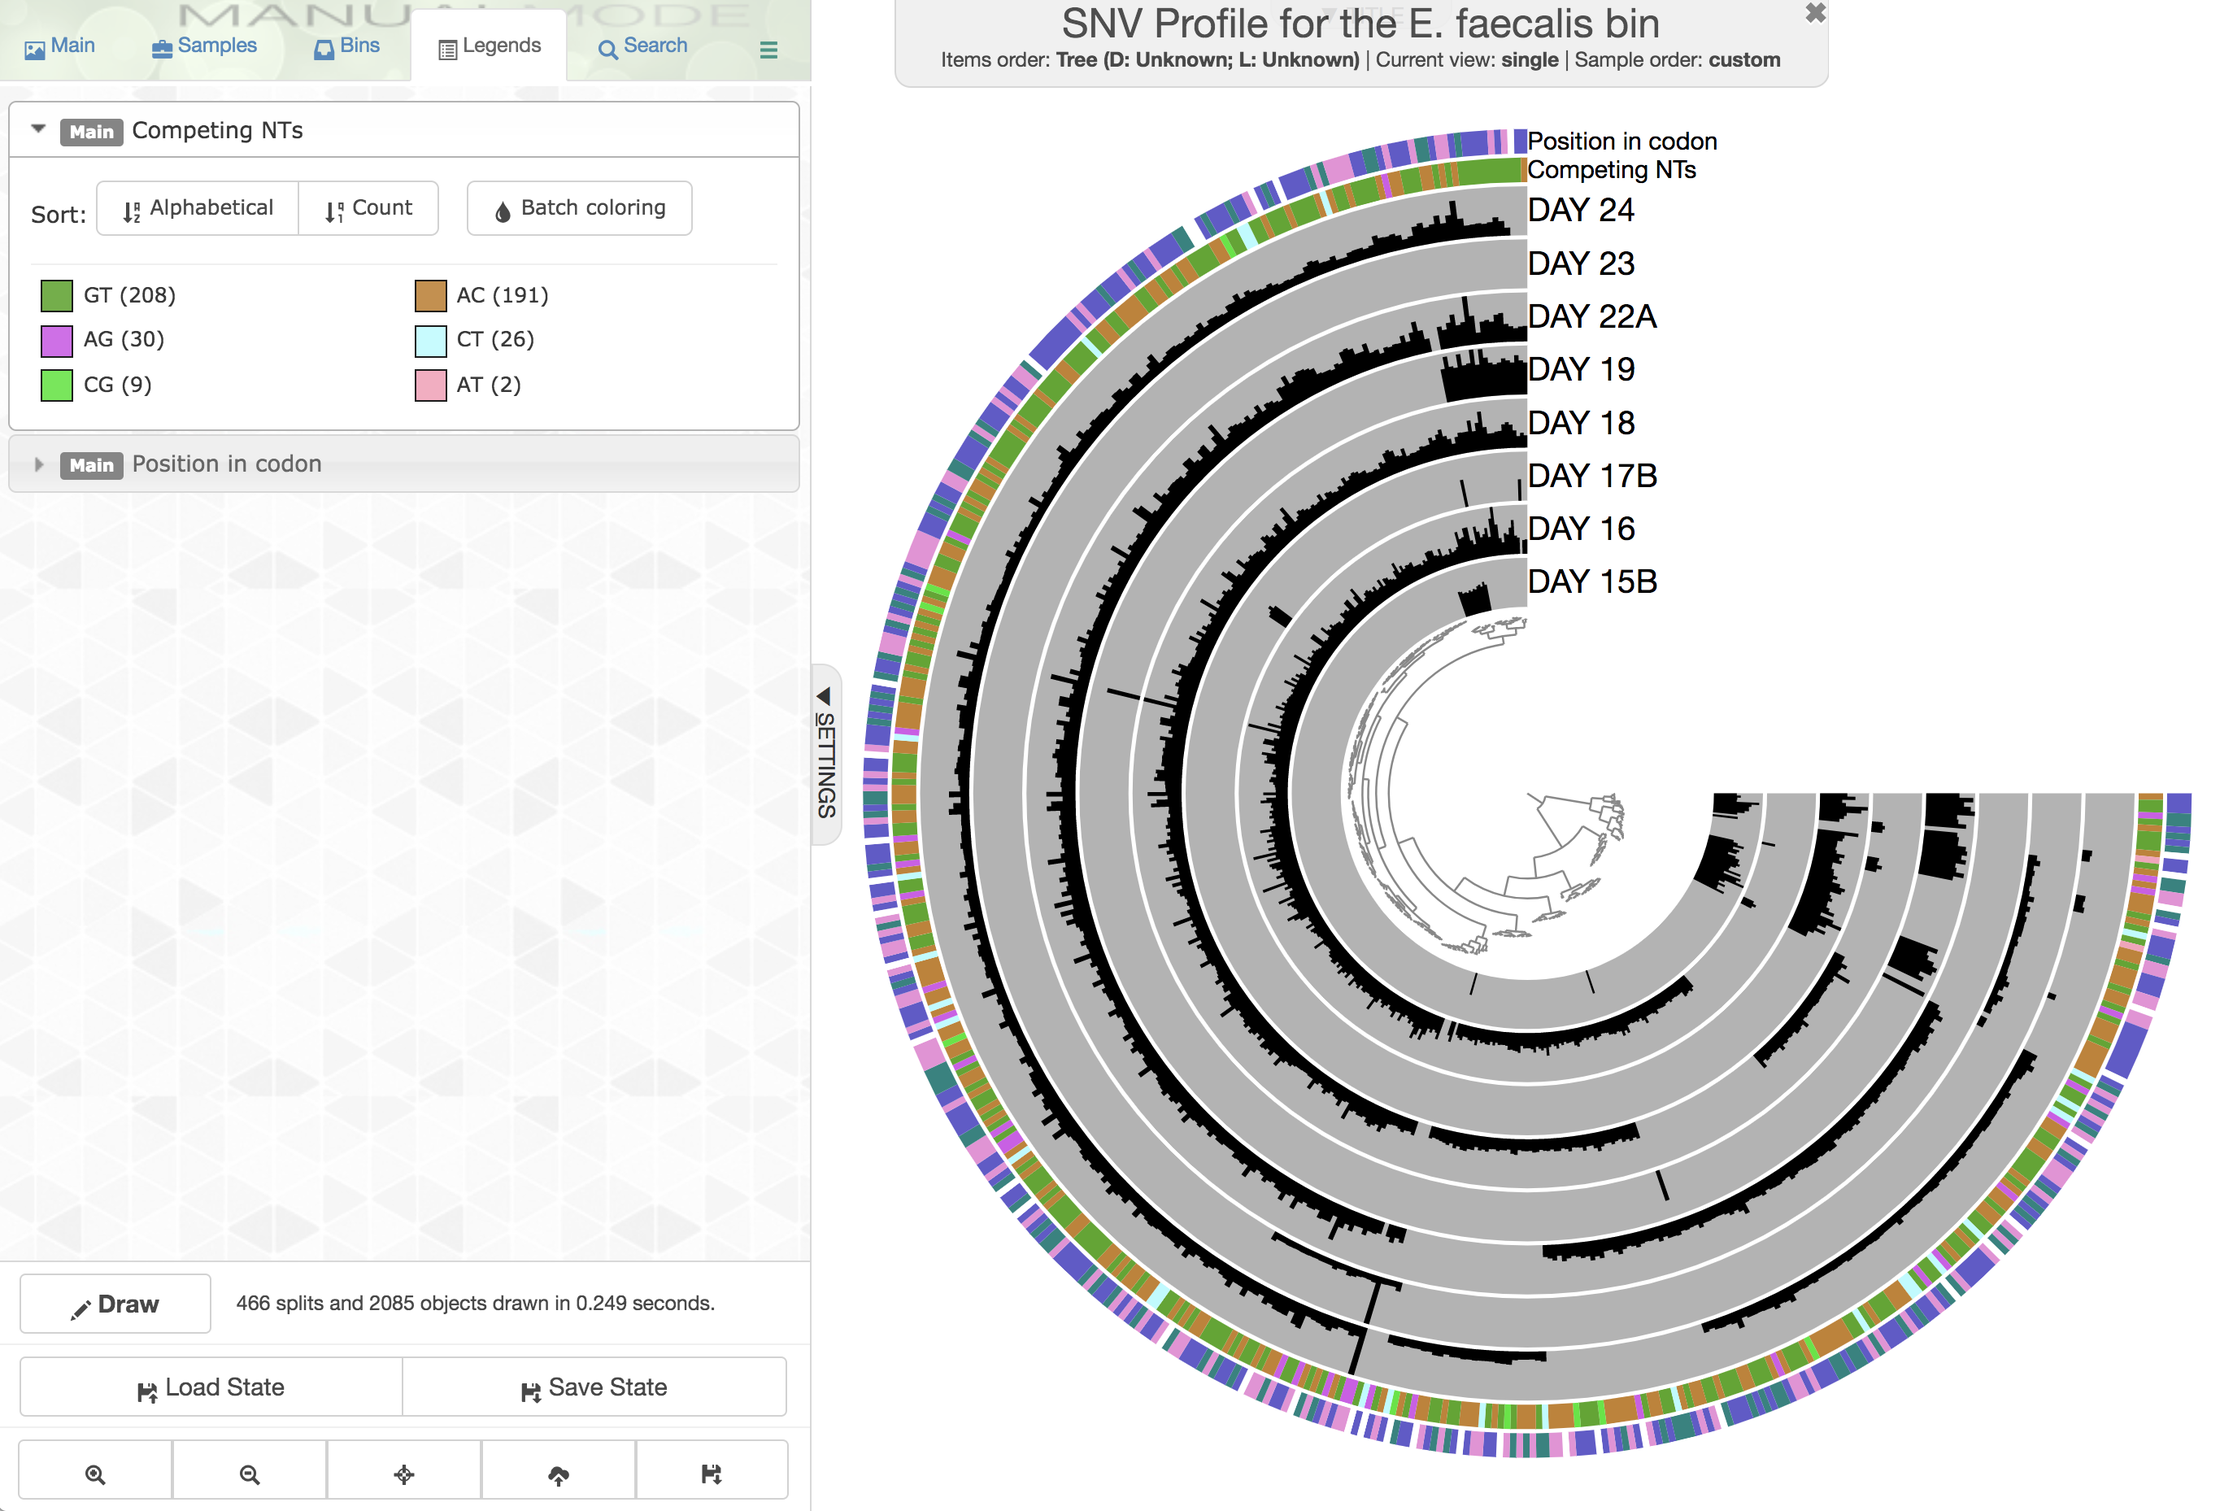
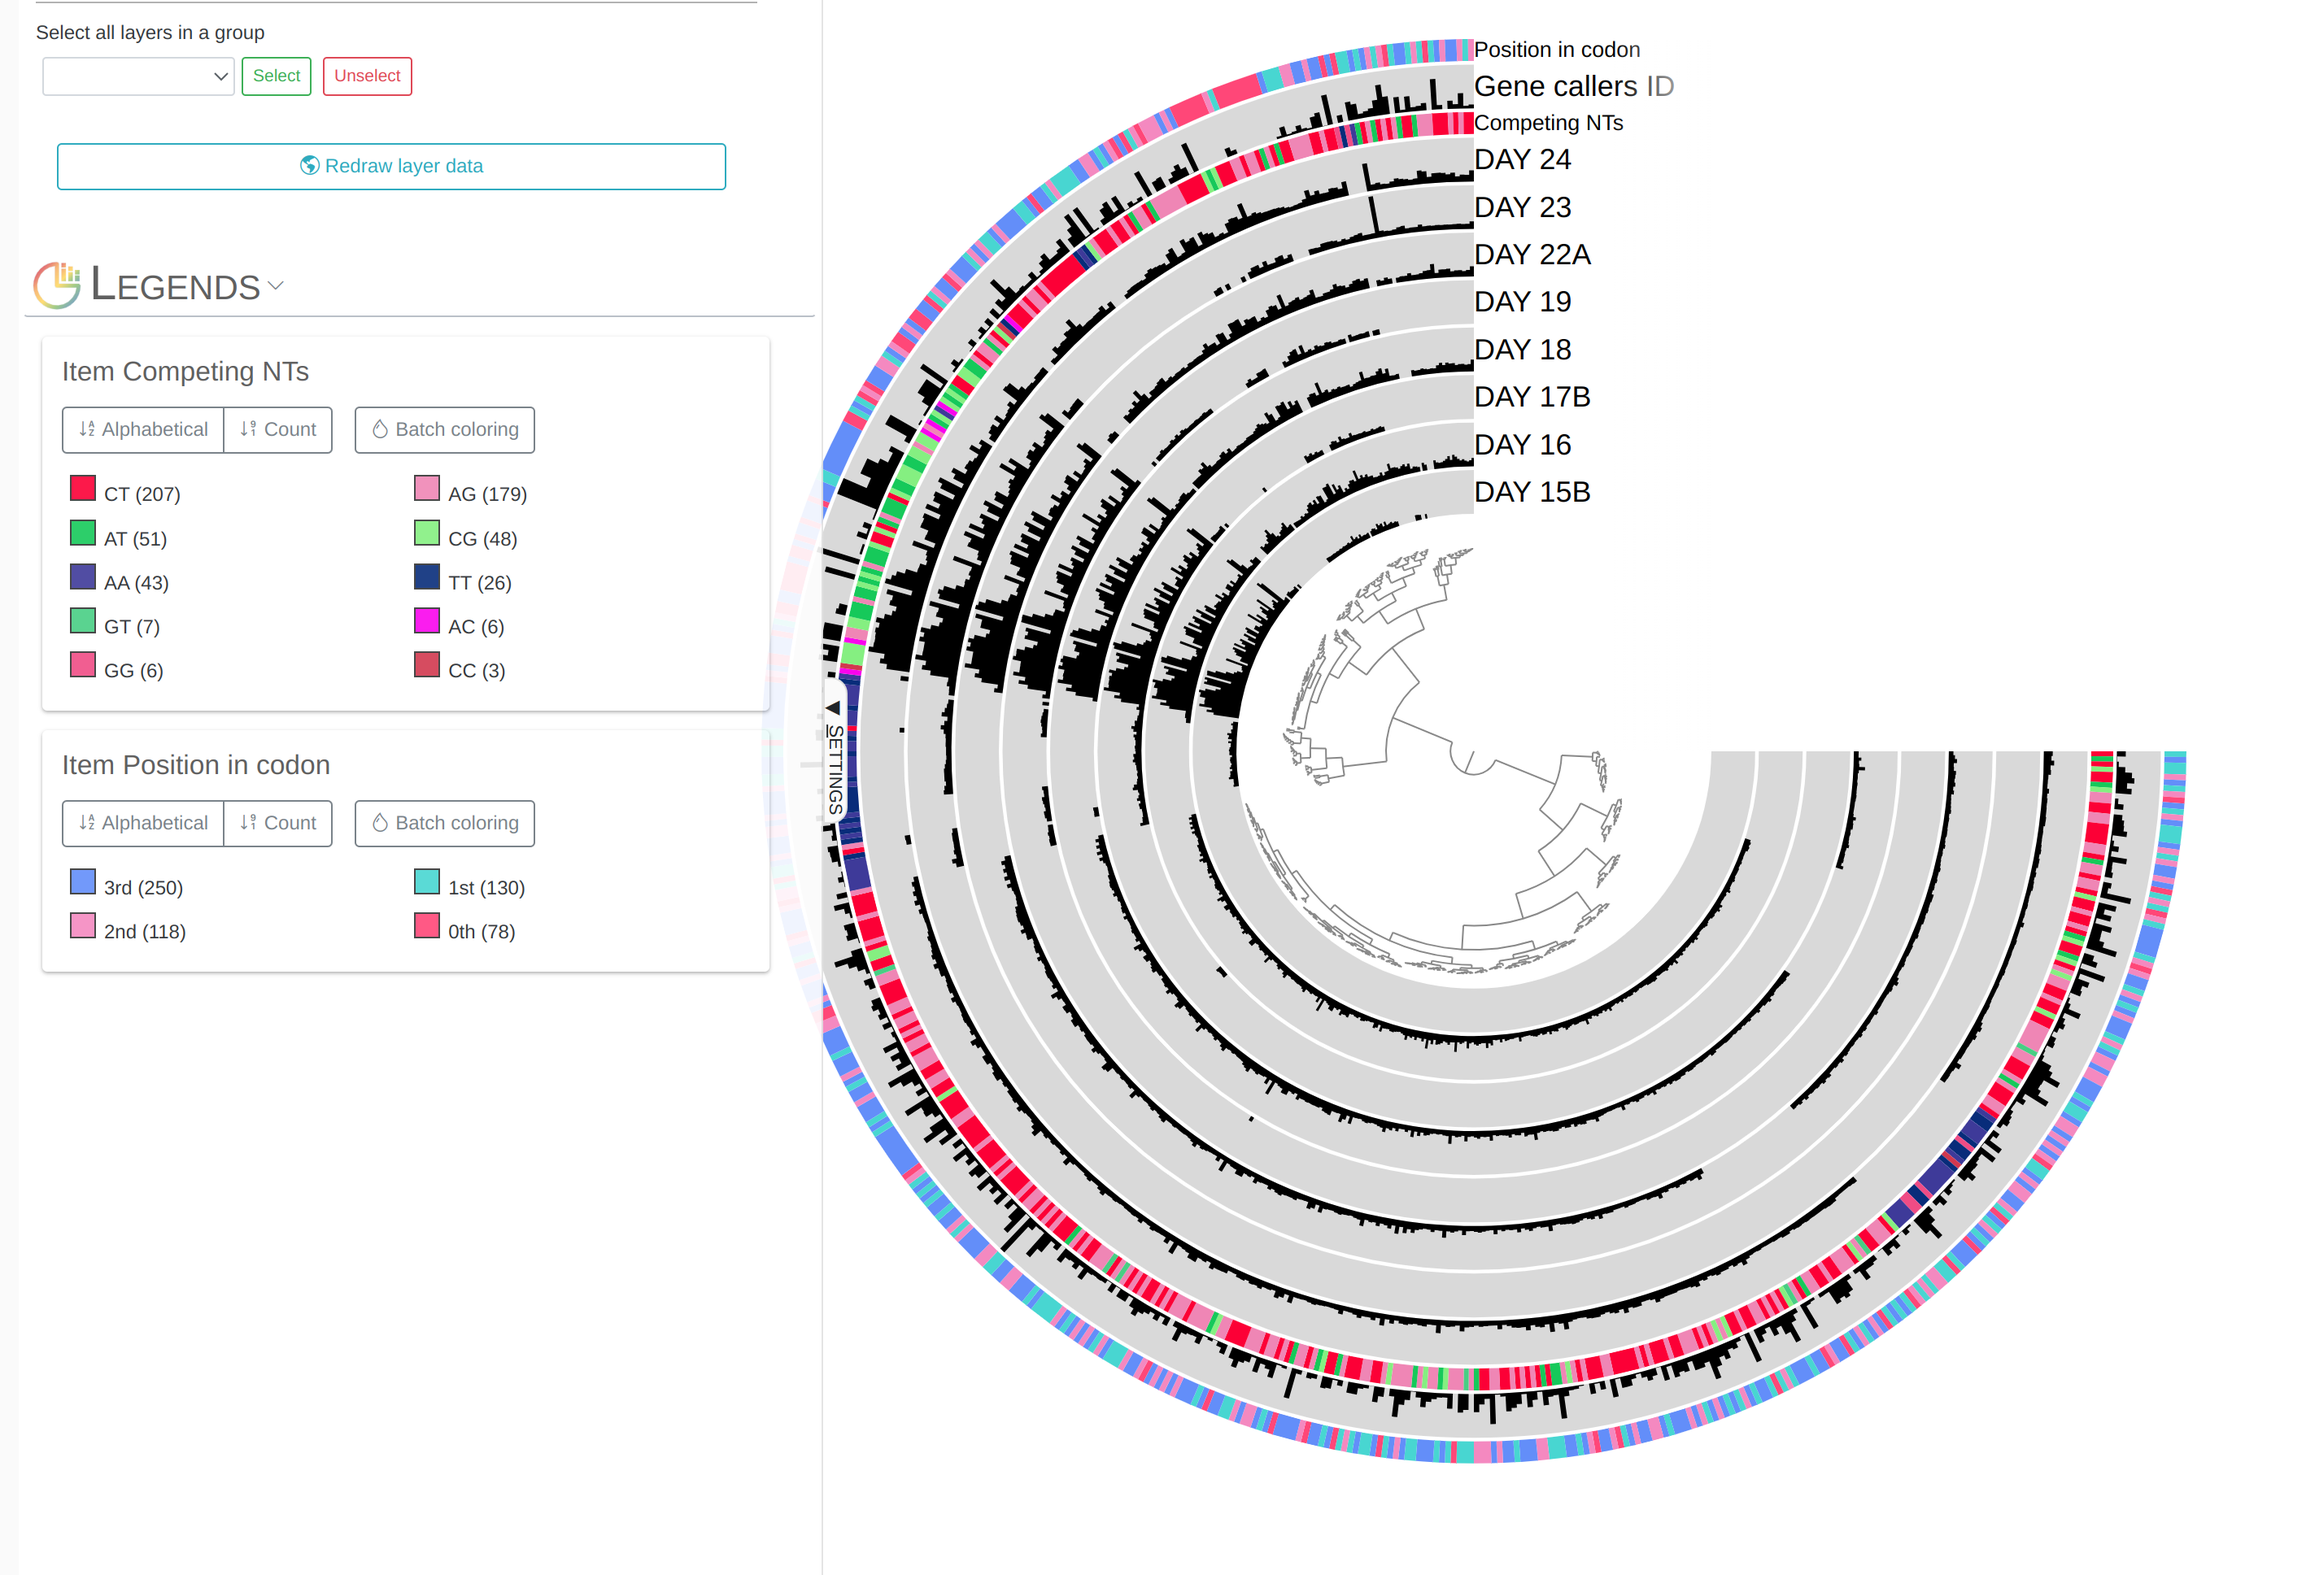
Update images according to new UI

diff --git a/tutorials/infant-gut/index.md b/tutorials/infant-gut/index.md
@@ -513,7 +513,7 @@ anvi-interactive -p PROFILE.db \
 {:.notice}
 Alternatively you could load the interface without the `--collection-autoload` flag, and click `Bins > Load bin collection > CONCOCT > Load` to load the CONCOCT collection.
 
-To turn off text annotation, go to `Main > Display > Additional Settings > Selections` and then uncheck `Show names`. You will then see something like this:
+To turn off text annotation, go to `Settings > Options > Bins Selection` and then uncheck `Show names`. You will then see something like this:
 
 [![Infant gut merged](images/infant-gut-concoct.png)](images/infant-gut-concoct.png){:.center-img .width-50}
 
@@ -623,6 +623,9 @@ Please note that the algorithms we have used here may have been improved since t
 Just a reminder, once you have the interactive interface in front of you, you can in fact investigate the taxonomy of contigs by BLASTing them against various NCBI collections using the right-click menu to have a second opinion about what do public databases think they are:
 
 [![Infant gut merged](images/infant-gut-split.gif)](images/infant-gut-split.gif){:.center-img .width-50}
+
+{:.notice}
+Mouse section moved under `Settings > Data`, after version 7.0.0. 
 
 {:.notice}
 We recently have added an option to quickly run them on [BIGSI](http://www.bigsi.io/). Sometimes it takes a split second, sometimes (especially when you are in France) it takes minutes. So, no promises, but try it for sure! It is an [excellent algorithm](http://dx.doi.org/10.1038/s41587-018-0010-1).
@@ -1095,7 +1098,7 @@ Which should give you this (after clicking `Draw`):
 
 [![phylogenomics](images/phylogenomics-manual-mode.png)](images/phylogenomics-manual-mode.png){:.center-img .width-50}
 
-You can replace the colors with the bin names by selecting `Text` from `Main > Layers > bin_name` and re-clicking `Draw`:
+You can replace the colors with the bin names by selecting `Text` from `Main > Legends > Item Names > bin_name` and re-clicking `Draw`:
 
 [![phylogenomics](images/phylogenomics-manual-mode-text.png)](images/phylogenomics-manual-mode-text.png){:.center-img .width-50}
 
@@ -2029,7 +2032,7 @@ This time you will get this display:
 
 [![E. faecalis SNVs](images/e-faecalis-SNVs-anvio-state.png)](images/e-faecalis-SNVs-anvio-state.png){:.center-img .width-50}
 
-As we've seen before, occurrence of SNVs follow a bi-daily fashion. Not that it needs any further convincing, but just to show off here, if you were to click `Samples > Sample order > view_data > Draw`, you can see that even days and odd days nicely separate from each other:
+As we've seen before, occurrence of SNVs follow a bi-daily fashion. Not that it needs any further convincing, but just to show off here, if you were to click `Main > Layers > Order by > Default(tree) > Draw`, you can see that even days and odd days nicely separate from each other:
 
 [![E. faecalis SNVs](images/e-faecalis-SNVs-anvio-state-clustered.png)](images/e-faecalis-SNVs-anvio-state-clustered.png){:.center-img .width-50}
 
